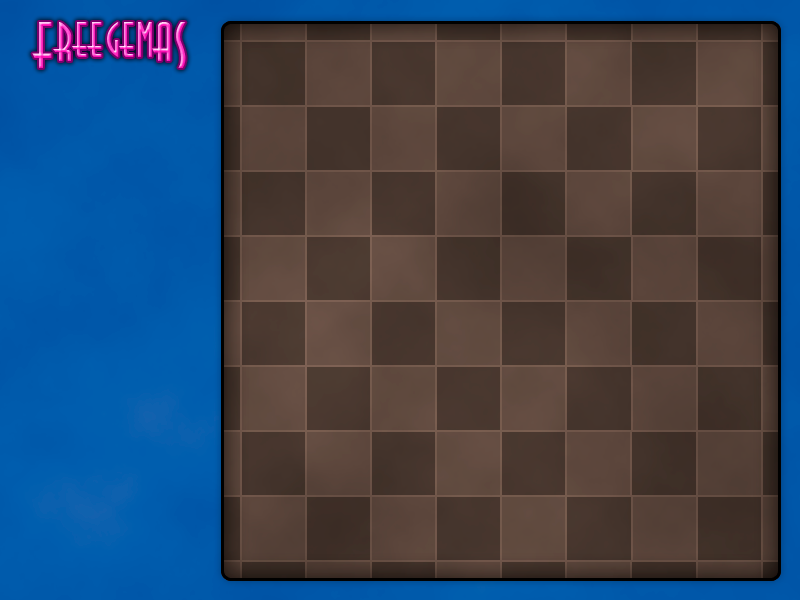
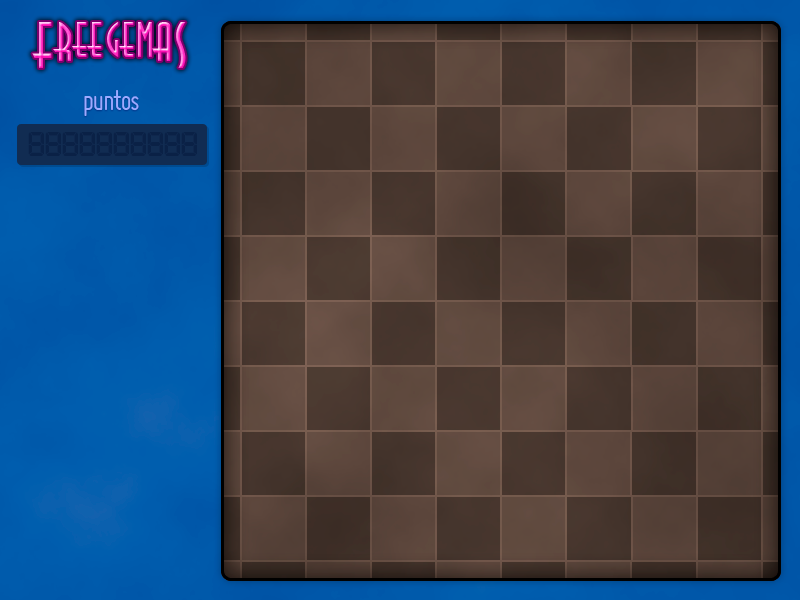
Ya aparece el panel de puntos

Changed region(s): [[0.0, 0.15, 0.2812, 0.3]]

diff --git a/estadoJuego.cpp b/estadoJuego.cpp
@@ -6,6 +6,8 @@
 #include <algorithm>
 
 #include <boost/format.hpp>
+#include <boost/lexical_cast.hpp>
+
 using boost::format;
 
 EstadoJuego::EstadoJuego(Juego * p) : Estado(p){
@@ -26,6 +28,18 @@ EstadoJuego::EstadoJuego(Juego * p) : Estado(p){
 
     pasoAnim = 0;
     totalAnim = 15;
+
+    puntos = 0;
+
+    repintarPuntos();
+}
+
+void EstadoJuego::repintarPuntos(){
+    Gosu::Bitmap temporal = Gosu::createText(boost::lexical_cast<wstring>(puntos),
+					     L"media/fuentelcd.ttf", 33, 0, 190, Gosu::taRight);
+
+    txtPuntos.reset(new Gosu::Image(padre -> graphics(),
+				    temporal));
 }
 
 void EstadoJuego::update(){
@@ -46,6 +60,9 @@ void EstadoJuego::update(){
 	    lDEBUG << "Fin eGemasDesapareciendo";
 
 	    estado = eGemasNuevasCayendo;
+	    
+	    puntos += 10 * casillasGanadoras.size();
+	    repintarPuntos();
 
 	    for(size_t i = 0; i < casillasGanadoras.size(); ++i){
 		tablero.del(casillasGanadoras[i].x,
@@ -205,7 +222,7 @@ void EstadoJuego::draw(){
 			// Respecto a la posición que marca y = origY, diferencial de movimiento
 			float avance = (destY) * 65;
 
-			lDEBUG << format("Casilla %i,%i. OrigY: %i, destY: %i, avance: %i") % i % j % origY % destY % avance;
+			// lDEBUG << format("Casilla %i,%i. OrigY: %i, destY: %i, avance: %i") % i % j % origY % destY % avance;
 
 			img -> draw(posX + i * 65,
 				    posY + origY * 65 
@@ -237,6 +254,8 @@ void EstadoJuego::draw(){
 			    41 + casillaMarcadaY * 65,
 			    4);
     }
+
+    txtPuntos -> draw(8, 127, 5, 1, 1, Gosu::Color(0xff4ec1be));
 }
 
 bool EstadoJuego::sobreGema(int mX, int mY){

diff --git a/tablero.cpp b/tablero.cpp
@@ -236,12 +236,12 @@ void Tablero::rellenarEspacios(){
 		saltos ++;
 	    }
 
-	    lDEBUG << format("%i saltos calculados para la columna %i") % saltos % x;
+	    // lDEBUG << format("%i saltos calculados para la columna %i") % saltos % x;
 
 	    for(int y = 0; y < 8; ++y){
 		if(casillas[x][y] == casVacia) {
 		    
-		    lDEBUG << format("(%i,%i) está vacía, rellenar. OrigY: %i. Saltos: %i") % x % y % (y - saltos) % saltos;
+		    // lDEBUG << format("(%i,%i) está vacía, rellenar. OrigY: %i. Saltos: %i") % x % y % (y - saltos) % saltos;
 
 		    casillas[x][y] = static_cast<tCasilla> ( (int)Gosu::random(1,8) );
 

diff --git a/estadoJuego.h b/estadoJuego.h
@@ -71,6 +71,8 @@ private:
     /// Devuelve las coordenadas correspondientes a la gema marcada
     pair<int,int> dameGema(int mX, int mY);
 
+    void repintarPuntos();
+
     Tablero tablero;
 
     enum tEstado{
@@ -109,6 +111,9 @@ private:
     tr1::shared_ptr<Gosu::Image> imgAzul;
 
     tr1::shared_ptr<Gosu::Image> imgSelector;
+
+    tr1::shared_ptr<Gosu::Image> txtPuntos;
+    int puntos;
 };
 
 #endif /* _ESTADOJUEGO_H_ */
